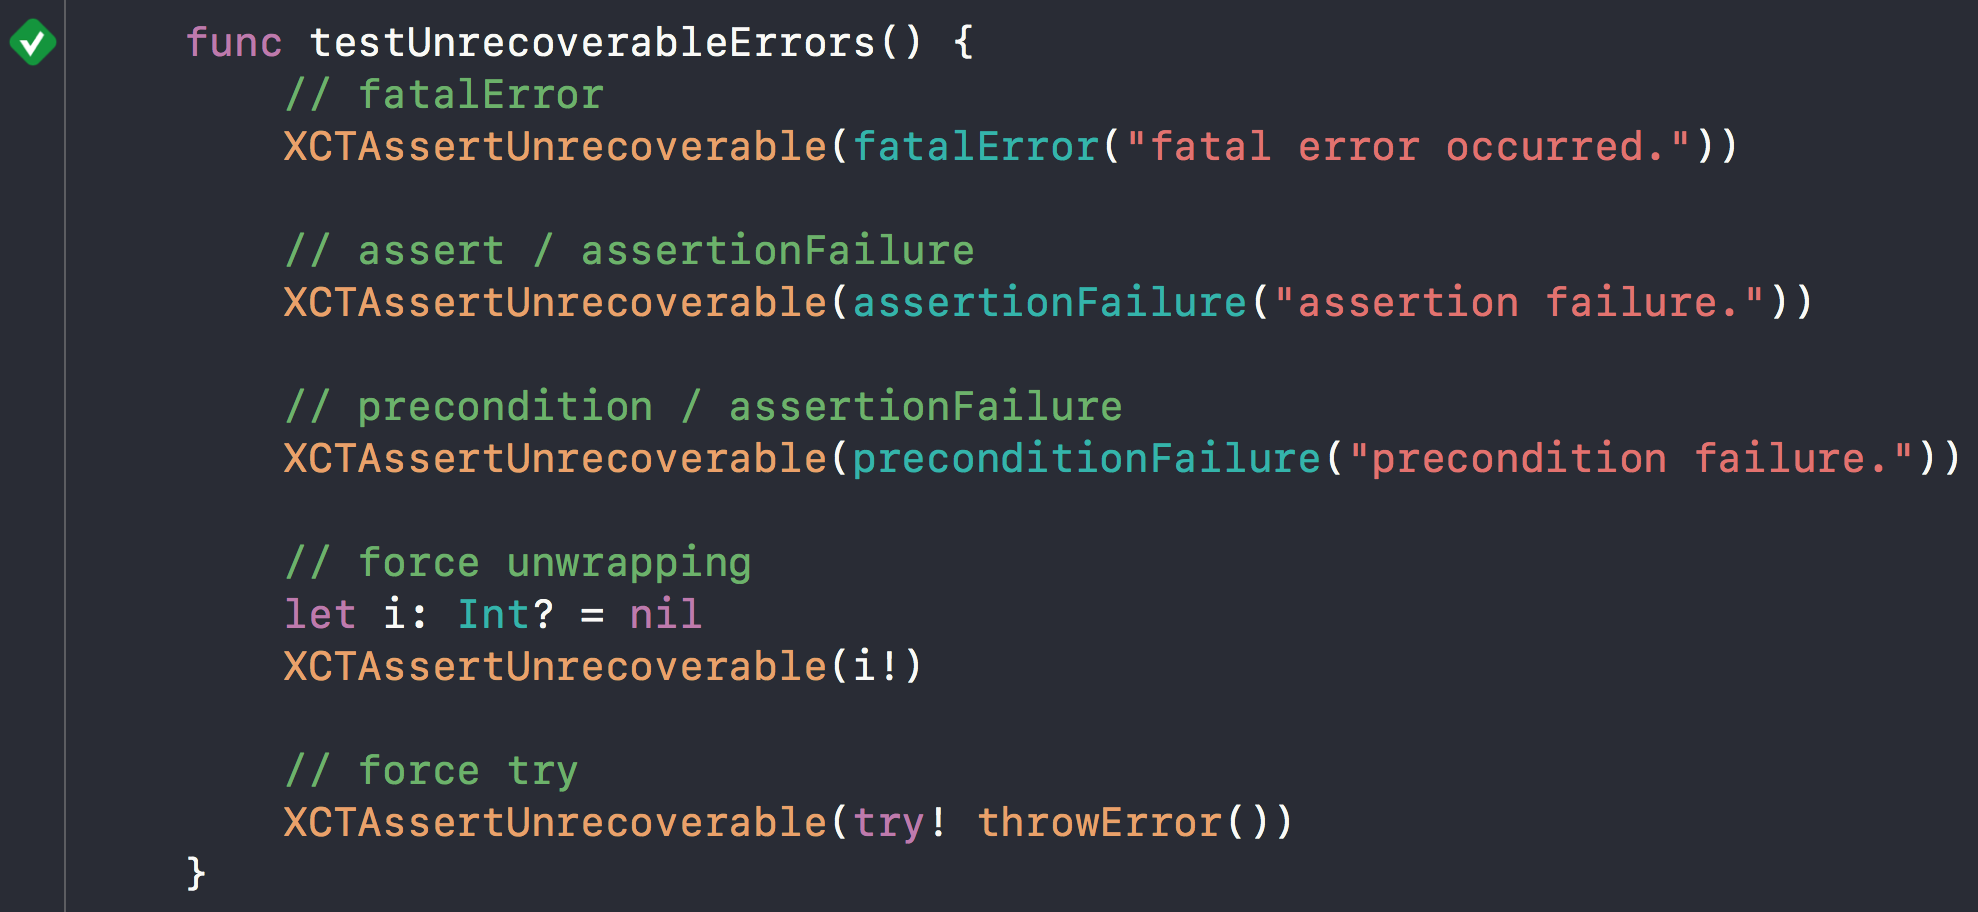
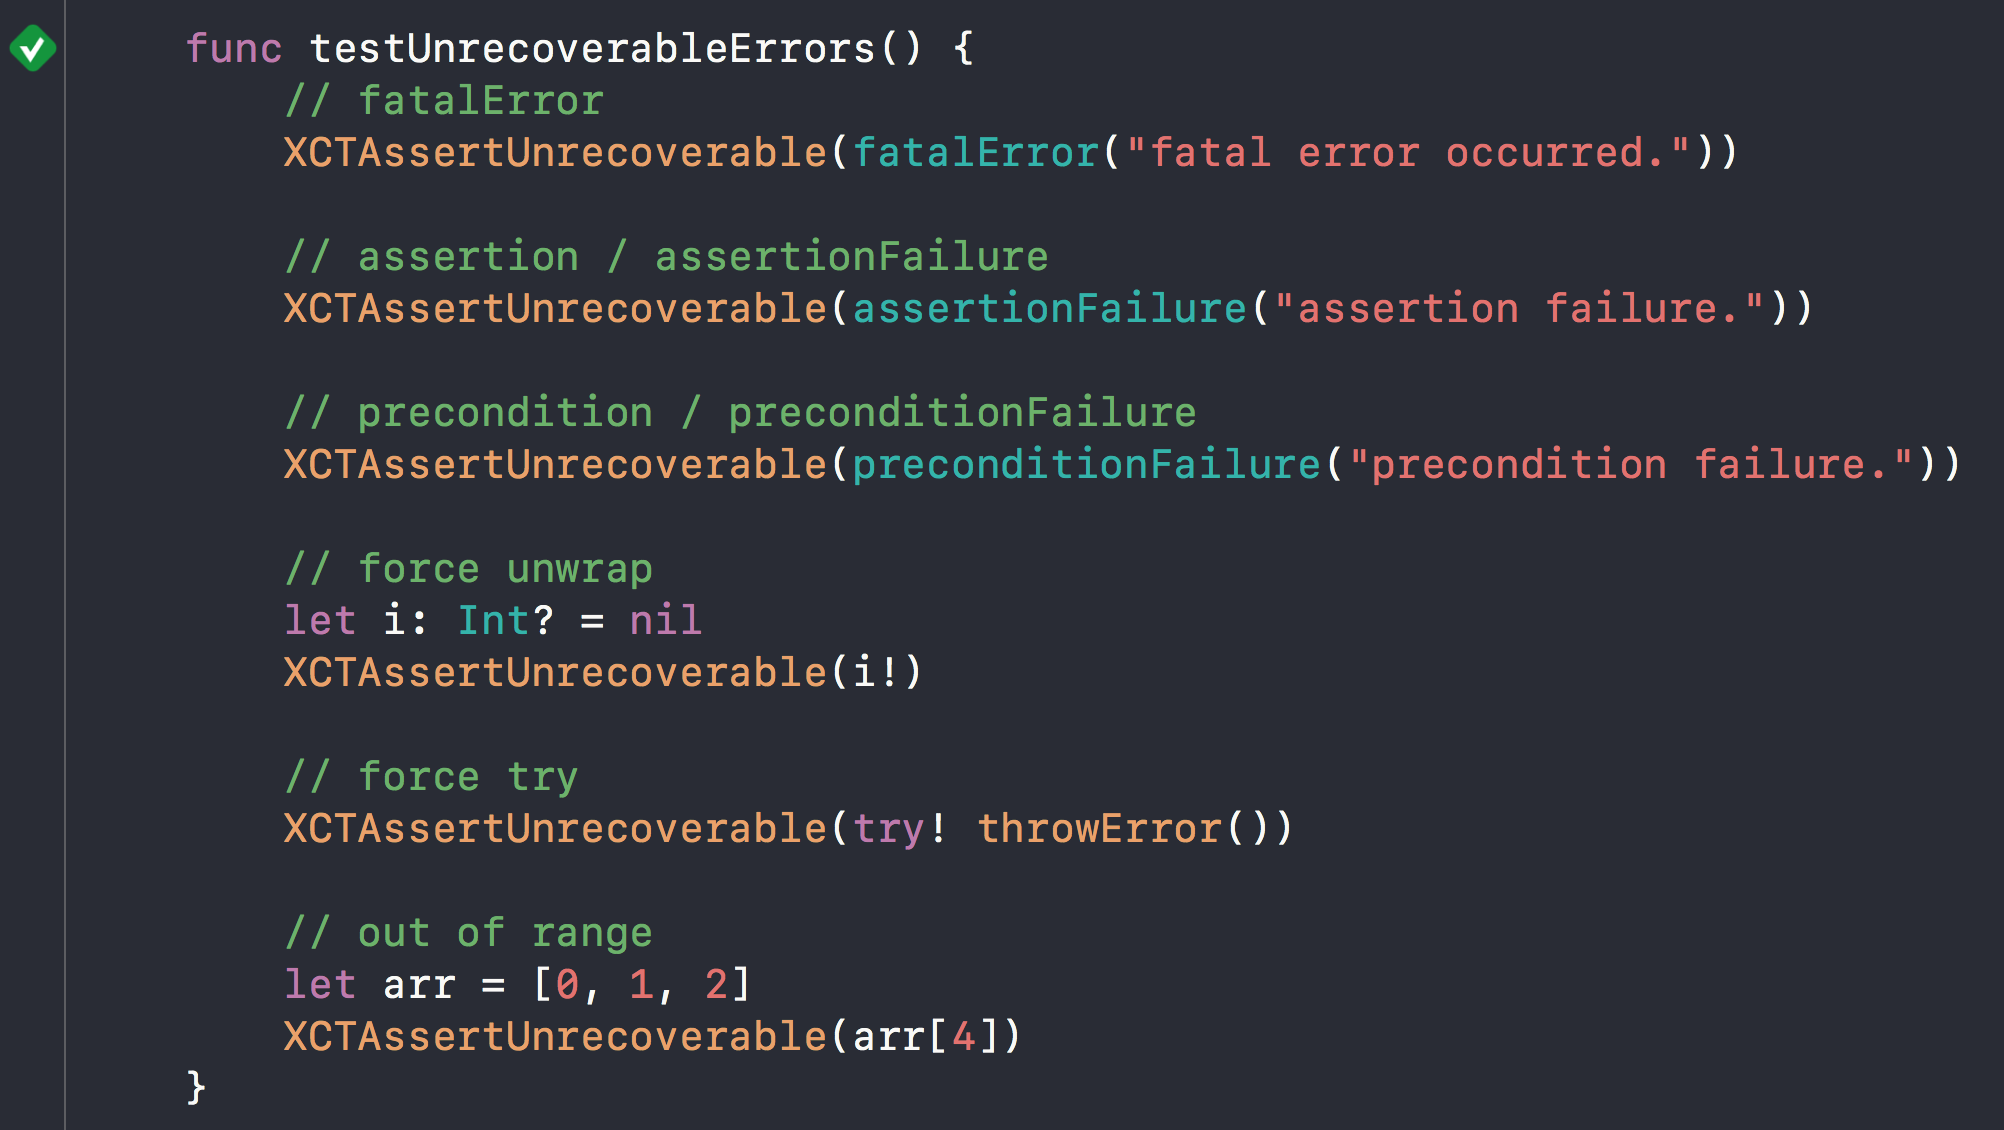
Fix typo and add sample

diff --git a/Tests/XCTAssertUnrecoverableTests/XCTAssertUnrecoverableTests.swift b/Tests/XCTAssertUnrecoverableTests/XCTAssertUnrecoverableTests.swift
@@ -11,11 +11,41 @@ import XCTest
 import XCTAssertUnrecoverable
 
 class XCTAssertUnrecoverableTests: XCTestCase {
+    struct ThrownError: Error { }
+    
+    func throwError() throws {
+        throw ThrownError()
+    }
+    
+    
+    
+    func testUnrecoverableErrors() {
+        // fatalError
+        XCTAssertUnrecoverable(fatalError("fatal error occurred."))
+        
+        // assertion / assertionFailure
+        XCTAssertUnrecoverable(assertionFailure("assertion failure."))
+        
+        // precondition / preconditionFailure
+        XCTAssertUnrecoverable(preconditionFailure("precondition failure."))
+        
+        // force unwrap
+        let i: Int? = nil
+        XCTAssertUnrecoverable(i!)
+        
+        // force try
+        XCTAssertUnrecoverable(try! throwError())
+        
+        // out of range
+        let arr = [0, 1, 2]
+        XCTAssertUnrecoverable(arr[4])
+    }
+    
     func testFatalError() {
         XCTAssertUnrecoverable(fatalError())
         XCTAssertUnrecoverable(fatalError("fatal error occurred."))
     }
-
+    
     func testAssert() {
         XCTAssertUnrecoverable(assert(1 == 2))
         XCTAssertUnrecoverable(assertionFailure("assertion failure."))
@@ -32,21 +62,21 @@ class XCTAssertUnrecoverableTests: XCTestCase {
     }
     
     func testForceTry() {
-        struct ThrownError: Error { }
-        
-        func throwError() throws {
-            throw ThrownError()
-        }
-        
-        XCTAssertUnrecoverable(try! throwError())
+        //        struct ThrownError: Error { }
+        //
+        //        func throwError() throws {
+        //            throw ThrownError()
+        //        }
+        //
+        //        XCTAssertUnrecoverable(try! throwError())
     }
-
+    
     func testOutOfRange() {
         let arr = [0, 1, 2]
         XCTAssertUnrecoverable(arr[4])
         XCTAssertUnrecoverable(arr[5])
     }
-
+    
     static var allTests = [
         ("testFatalError", testFatalError),
         ("testAssert", testAssert),
@@ -54,5 +84,5 @@ class XCTAssertUnrecoverableTests: XCTestCase {
         ("testForceUnwrap", testForceUnwrap),
         ("testForceTry", testForceTry),
         ("testOutOfRange",testOutOfRange),
-    ]
+        ]
 }
